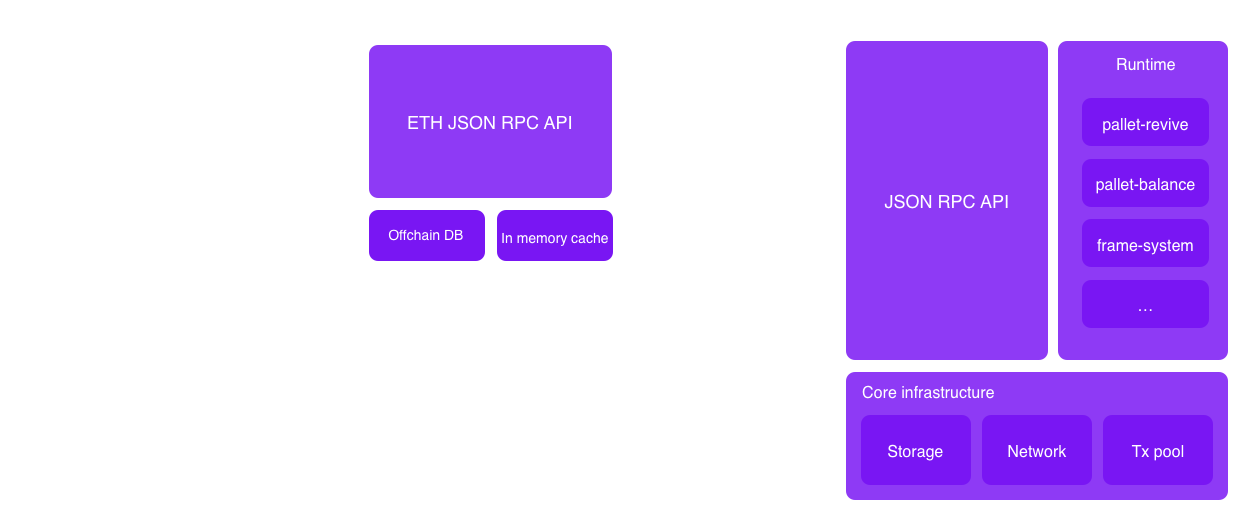
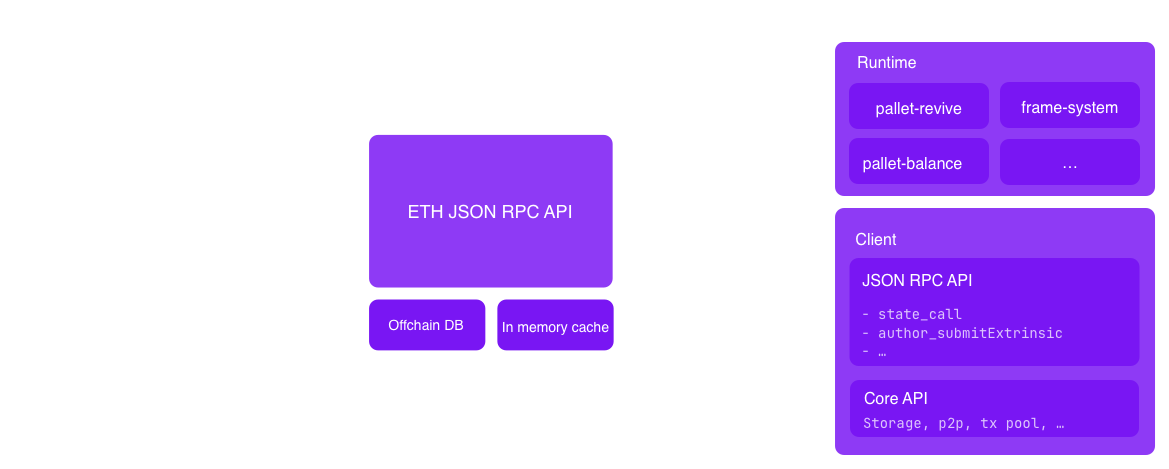
update

Changed region(s): [[0.6467, 0.0597, 1.0, 0.9851], [0.2772, 0.0597, 0.5235, 0.7463]]

diff --git a/syllabus/3-PVM-Polkadot-Architecture-and-Smart-Contracts/6.2-pallet-revive-runtime-slides.md b/syllabus/3-PVM-Polkadot-Architecture-and-Smart-Contracts/6.2-pallet-revive-runtime-slides.md
@@ -13,11 +13,29 @@ url: http://localhost:1948/syllabus/3-PVM-Polkadot-Architecture-and-Smart-Contra
 
 # pallet-revive architecture
 
+Notes:
+
+In this lecture we will cover the architecture of pallat-revive,
+We will look at how the module works inside the substrate chain, as well as the EVM compatibility layer, that we built on top of it.
+
 ---
 
 ## Architecture overview
 
-<img style="height: 90%; " src="img/pallet-revive/node-architecture.png" />
+<img style="width: 75%" src="img/pallet-revive/node-architecture.png" />
+
+Notes:
+Before we dive int the details of how our pallet works, let's step back and look at the overall architecture of a substrate node
+
+A node is essentially composed of 2 parts. The client and the runtime.
+
+The runtime defines the business logic of our chain, it is compiled to WASM and it's code is stored on chain and get
+upgraded every time there is a runtime upgrade. The runtime is where we find our smart contracts module among other useful pallets.
+
+The client is the Rust program that runs natively on your computer and handle all the general purpose blockchain administration tasks:
+communicating on the p2p network, answering JSON-RPC requests, ordering, prioritizing and validating the transaction pool and managing the database
+
+
 
 ---
 
@@ -26,20 +44,19 @@ url: http://localhost:1948/syllabus/3-PVM-Polkadot-Architecture-and-Smart-Contra
 <img style="height: 90%; " src="img/pallet-revive/eth-rpc-architecture.png" />
 
 Notes:
-There are a few things we want to enable with this compatibility layer
+To enable Ethereum compatibility, we need to speak the language of Ethereum.
+This means implementing the Ethereum JSON-RPC API, which is the standard interface used by all Ethereum clients to interact with the chain.
 
-- Make it easy to onboard EVM users by supporting EVM wallets such as MetaMask.
-- Easy on ramp for existing project and developers, existing projects can start working with minimal efforts, take
-  existing contracts or Dapps, rebuild them and deploy them to Polkadot and they will work right away.
-  Developers can use the tools that have been buily over the years by the EVM community.
+To achieve this, we built a proxy server that sits between the Ethereum client and the Substrate node.
+The proxy connects to the Substrate node via its JSON-RPC interface, subscribes to new blocks, and relays queries.
 
-To get there, we need to speak the language of Ethereum, both on chain by running a compatible VM,
-but also by implementing Ethereum JSON-RPC specs, as all interactions with the chains are done through the RPC.
+Additionally, it:
+	-	Caches recent blocks to improve response time.
+	-	Maintains a lightweight database with indexes to track mappings between Ethereum transactions and their corresponding Substrate transactions.
 
-As we covered previously, there has been a few attempts, to bring EVM compatibility to Substrate.
-
-- frontier opted to collocate the Eth compatibility in the Node
-- We opted to build it as a separate binary, as a proxy layer to the Substrate node.
+There have been multiple efforts to bring EVM compatibility to Substrate.
+	- Frontier integrates the Ethereum API directly inside the Substrate node.
+  - Our approach decouples the Eth API by building it as a separate proxy layer, independent of the node.
 
 This present a few benefits:
 
@@ -52,6 +69,21 @@ This present a few benefits:
 ## EVM flow
 
 <img style="height: 90%; " src="img/pallet-revive/eth-rpc-flow.png" />
+
+Notes:
+
+Now, let’s examine the flow of a transaction from an Ethereum client to the Substrate node.
+
+- A user signs and submits a transaction from an Ethereum wallet like MetaMask.
+- The proxy layer intercepts the transaction and wraps it into a pallet-revive runtime call, specifically an eth_transact call.
+Different types of transactions in Substrate:
+  - Inherents – Unsigned transactions included by the block author.
+  - Signed and unsigned transactions – Regular transactions submitted by users.
+
+In our case, we submit the Ethereum transaction as an unsigned transaction.
+  - We define a custom implementation of the Checkable trait in Substrate, that recover the signer of the transaction
+    from the payload, and create a regular pallet_revive extrinsic out of it, with a signed origin and either an
+    instantiate_with_code or a call dispatch call
 
 ---
 
@@ -75,7 +107,6 @@ impl pallet_revive::Config for Runtime {
   type WeightPrice = TransactionPayment;
   type RuntimeHoldReason = RuntimeHoldReason;
 
-  type CallFilter = Nothing;
   type DepositPerItem = DepositPerItem;
   type DepositPerByte = DepositPerByte;
   type CodeHashLockupDepositPercent = CodeHashLockupDepositPercent;
@@ -237,6 +268,10 @@ contracts can call. They are defined in a dedicated crate `pallet-revive-uapi`.
 
 ---v
 
+## Transaction hashes
+
+---v
+
 ## Balance Decimals
 
 - In EVM, the smallest unit of value is 1 wei, which is 10^-18 ETH.
@@ -311,7 +346,7 @@ pub trait AddressMapper<T: Config> {
 
 ### Address mapping
 
-```rust[1-10| 12-21 | 12-27]
+```rust[1-10| 12-21 | 14-18,23-27]
 // H160 -> AccountId32 -> H160
 
 //  alice_eth: 0x0101010101010101010101010101010101010101

diff --git a/syllabus/3-PVM-Polkadot-Architecture-and-Smart-Contracts/2-Smart-Contracts-101-slides.md b/syllabus/3-PVM-Polkadot-Architecture-and-Smart-Contracts/2-Smart-Contracts-101-slides.md
@@ -37,6 +37,9 @@ Notes:
 
 <img style="width: 80%"  src="img/smart-contracts-101/crop-insurance.png" />
 
+Notes:
+See https://www.owlexplains.com/en/podcast/ep-8-how-lemonade-is-using-smart-contracts-to-revolutionize-crop-insurance/
+
 ---v
 
 ## Ecosystem
@@ -565,10 +568,12 @@ INPUT="0xa9059cbb000000000000000000000000ba04f1c1e4577165dd2297d3fbedf956b0e4c8a
 ```
 
 Notes:
-Now that we have decoded the transaction, we can try to decode the input data
+Now that we have decoded the transaction, let's look at how the input data is encoded
 
-- the first 4 bytes of the input data are the function signature, which is used to identify the function being called, in this case, it is the transfer function of an ERC20 token.
-- The rest of the input data is the parameters of the function, using the transfer function signature we can decode the input data to get the address and the amount being sent.
+- The first 4 bytes of the input data are the function selector
+- They are derived from the first 4 bytes of the keccak hash of the function signature.
+- The VM use the selector to lookup the address of the function being called (here the transfer function), and jump to it.
+- The rest of the input are the ABI encoded parameter of the function
 
 ---v
 
@@ -612,9 +617,15 @@ a0: 6865 6c6c 6f00 0000 0000 0000 0000 0000 0000 0000 0000 0000 0000 0000 0000 0
 ```
 
 Notes:
-We’ve covered decoding ABI-encoded data—now let’s look at the opposite process: encoding function call parameters.
-Using the function's ABI signature, we can encode the parameters using cast abi-encode.
-A few remarks:
+
+Once the selector is found, the VM will jump to the function and execute it.
+Let's look at how the parameters are encoded  using EVM ABI encoding standard.
+The ABI defines the standard way to interact with contracts both from outside the blockchain and for contract-to-contract interaction
+
+The EVM operates on 32-byte words, meaning that all storage, memory, and stack operations use 32-byte slots.
+Arguments are padded and aligned to 32 bytes, to make it easy to reas or load them from memory during execution.
+
+For this example signature the data is encoded as follows:
 
 - We are encoding a tuple containing a boolean, a string, and an address.
 - Since a tuple is dynamic, the first 32 bytes store an offset to where the actual data starts—here, 0x20.
